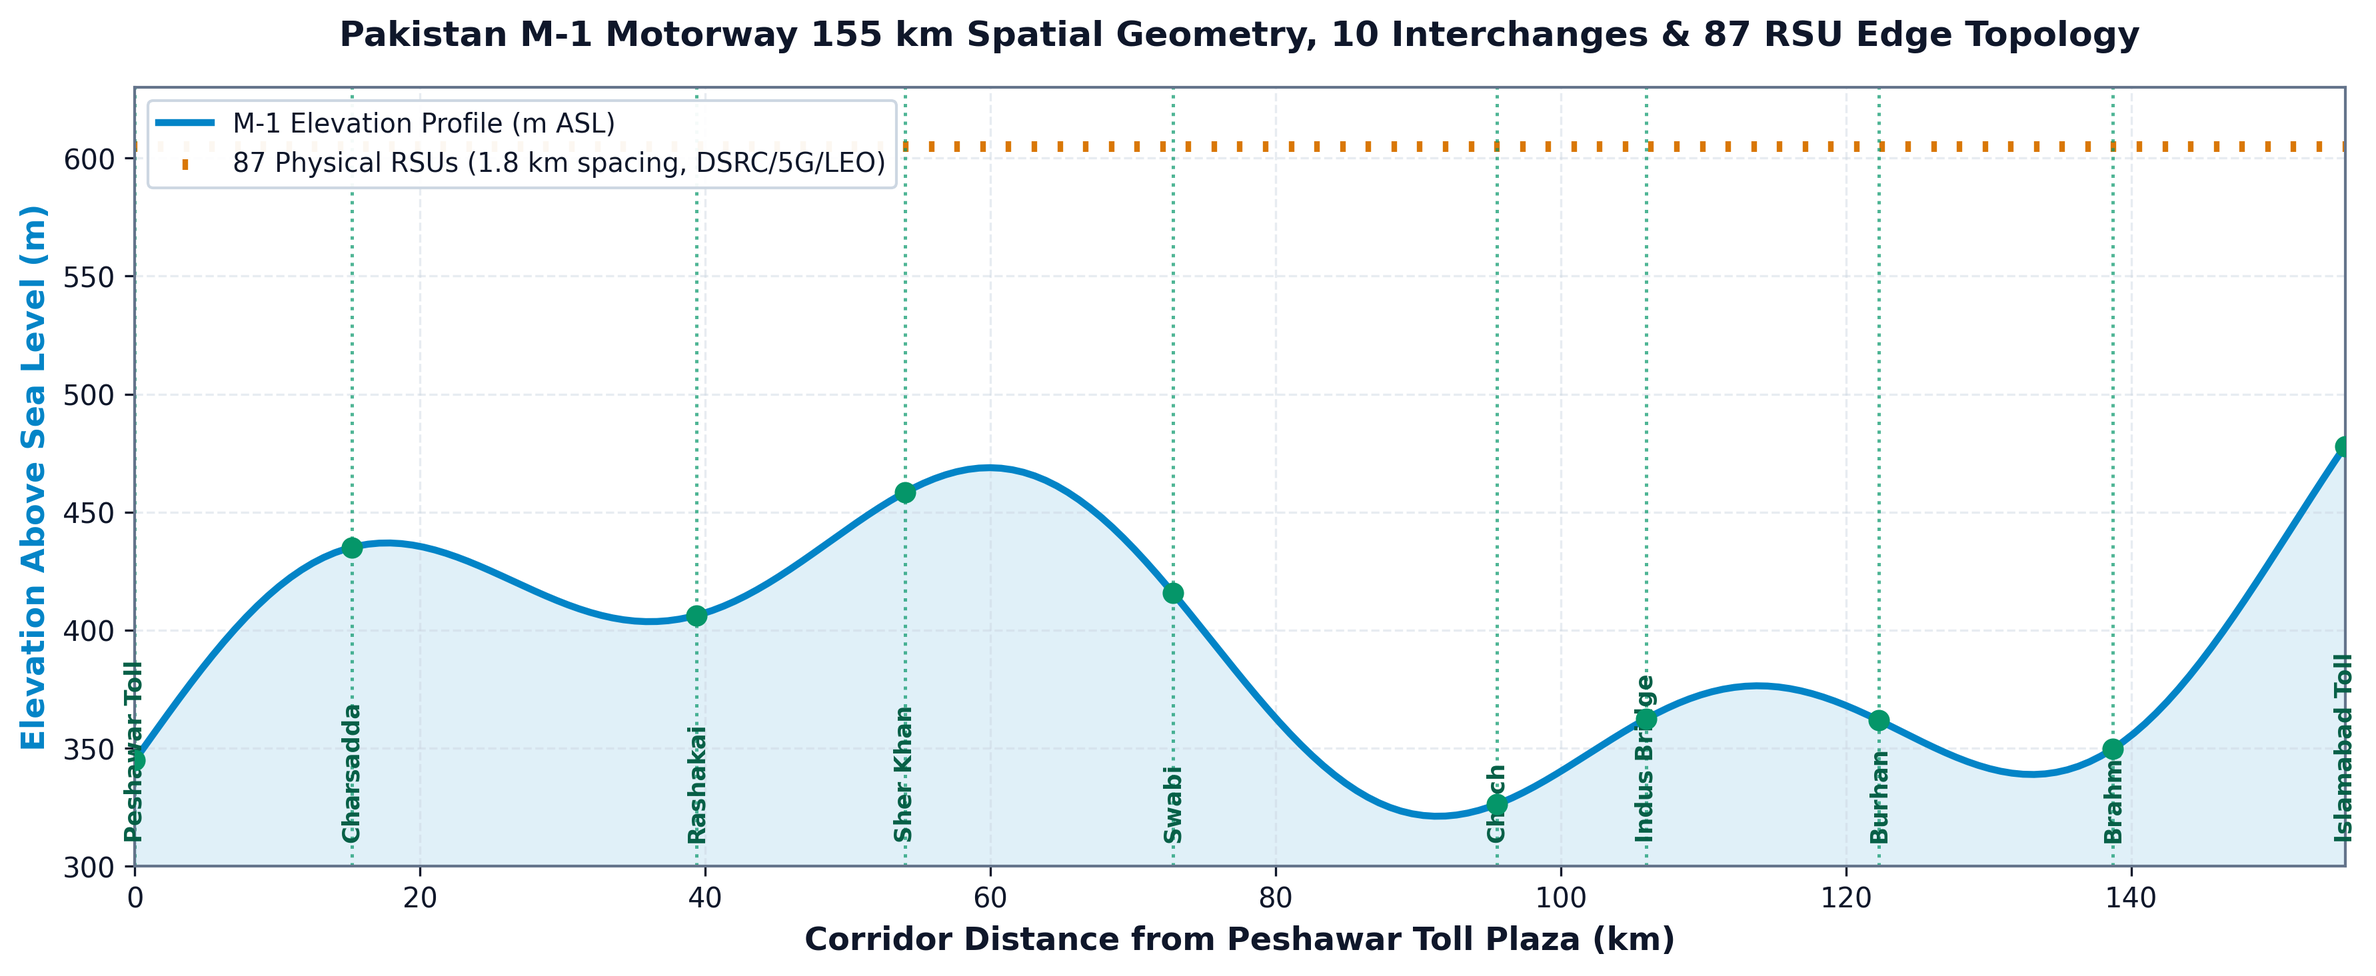
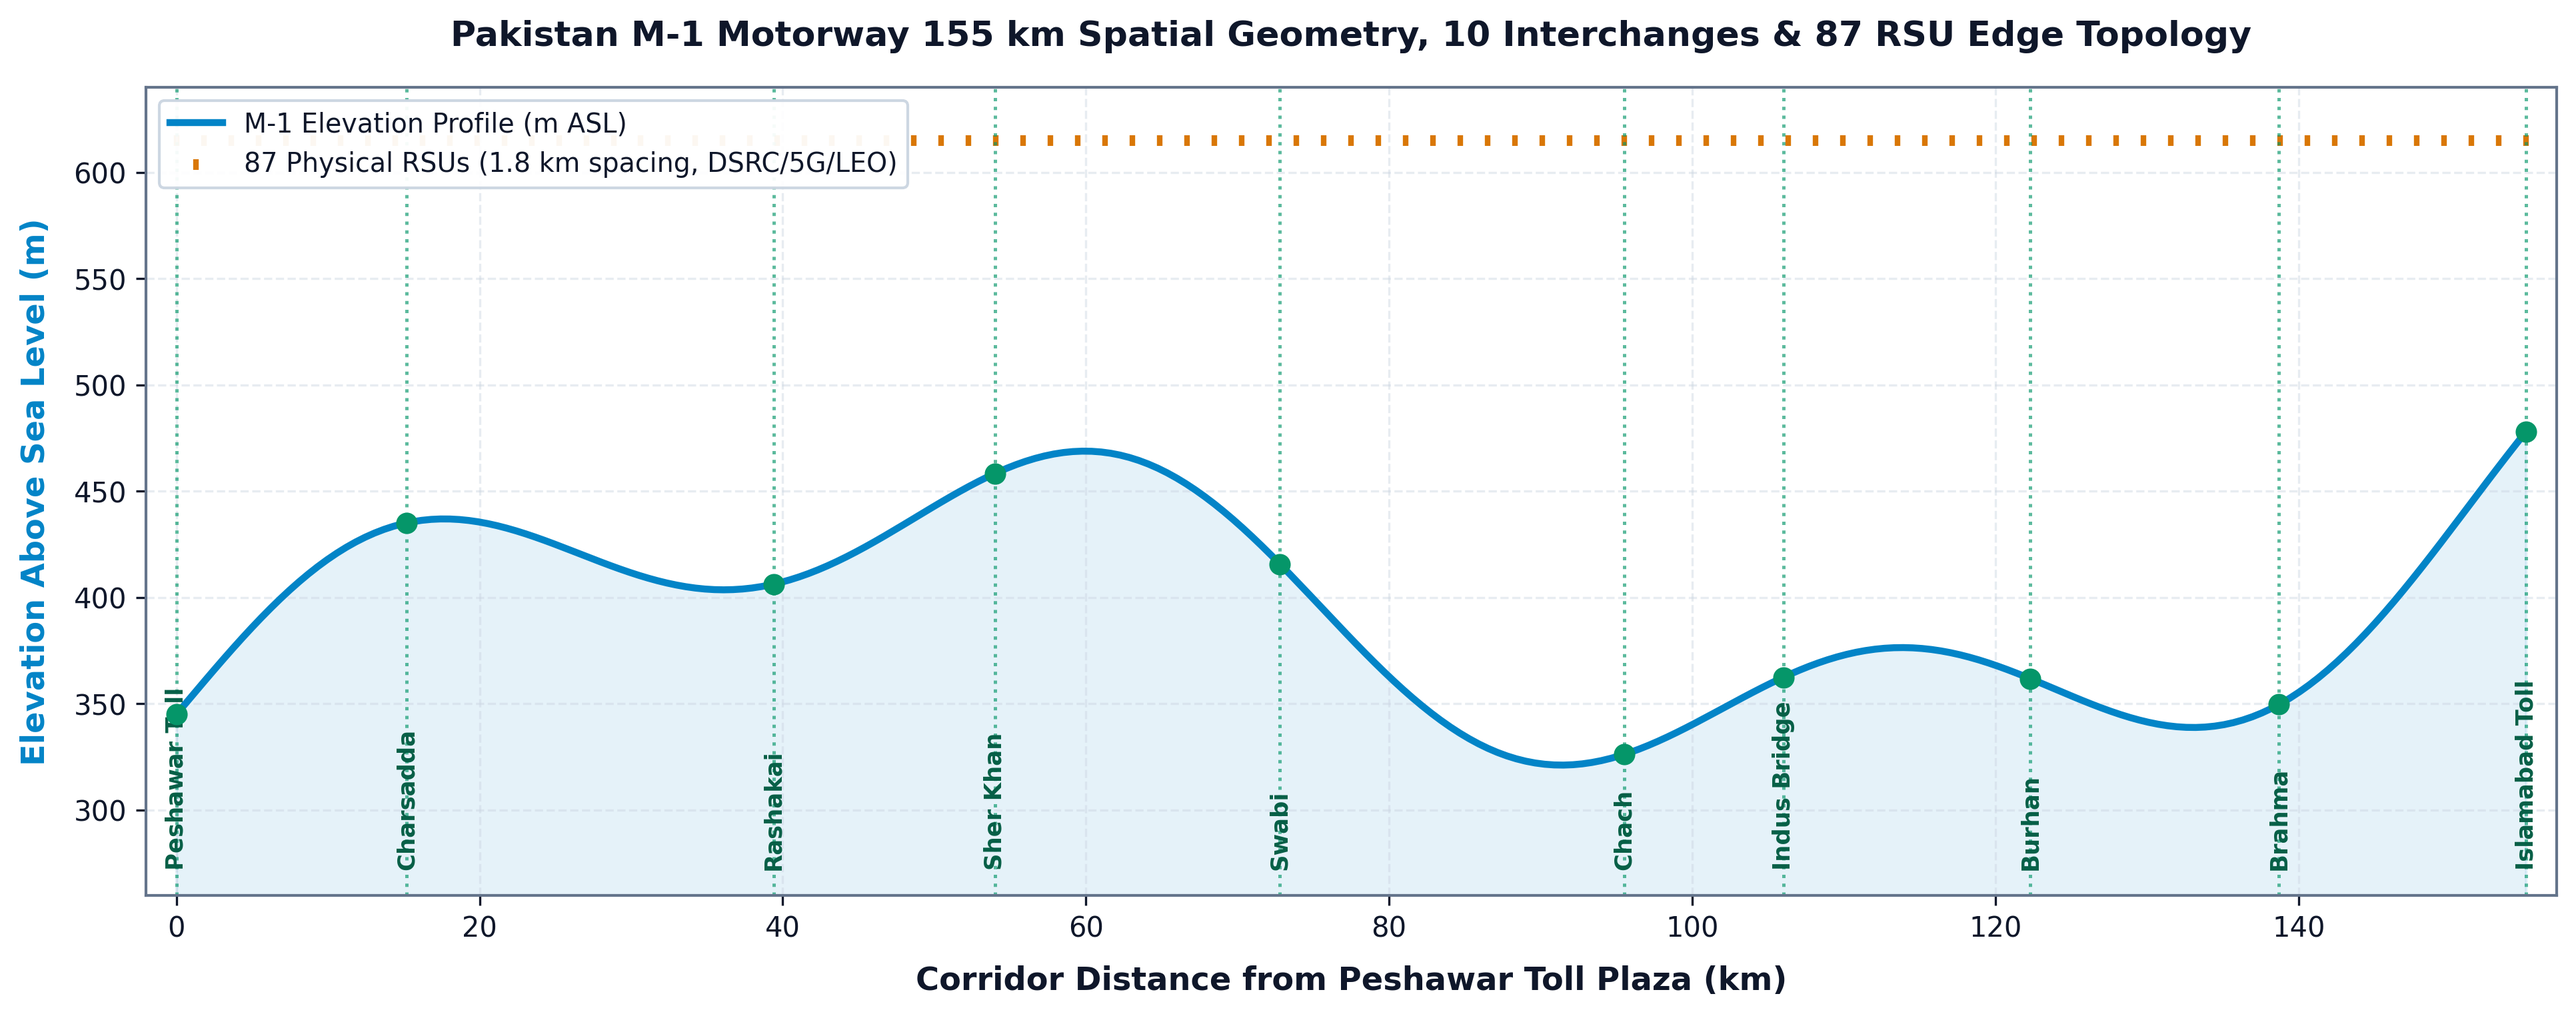
fix(assets): resolve text overlap in Figure 2 and improve typography spacing

Changed region(s): [[0.0, 0.0, 0.9964, 0.9829], [0.0311, 0.1536, 0.0623, 0.1843]]

diff --git a/generate_readme_figures.py b/generate_readme_figures.py
@@ -37,17 +37,17 @@ os.makedirs(assets_dir, exist_ok=True)
 # -------------------------------------------------------------
 # FIGURE 1: 155 KM M-1 ELEVATION PROFILE & 87 RSU DISTRIBUTION
 # -------------------------------------------------------------
-fig, ax1 = plt.subplots(figsize=(12, 5), dpi=300)
+fig, ax1 = plt.subplots(figsize=(13, 5.2), dpi=300)
 
-kms = np.linspace(0, 155, 200)
+kms = np.linspace(0, 155, 250)
 elev = 345.0 + 85.0 * np.sin(kms / 25.0) + 120.0 * (kms / 155.0)**1.5 + 40.0 * np.sin(kms / 8.0)
 
 ax1.plot(kms, elev, color='#0284c7', lw=2.5, label='M-1 Elevation Profile (m ASL)')
-ax1.fill_between(kms, elev, 300, color='#0284c7', alpha=0.12)
-ax1.set_xlabel('Corridor Distance from Peshawar Toll Plaza (km)', fontweight='bold')
-ax1.set_ylabel('Elevation Above Sea Level (m)', color='#0284c7', fontweight='bold')
-ax1.set_xlim(0, 155)
-ax1.set_ylim(300, 630)
+ax1.fill_between(kms, elev, 260, color='#0284c7', alpha=0.10)
+ax1.set_xlabel('Corridor Distance from Peshawar Toll Plaza (km)', fontweight='bold', labelpad=8)
+ax1.set_ylabel('Elevation Above Sea Level (m)', color='#0284c7', fontweight='bold', labelpad=8)
+ax1.set_xlim(-2, 157)
+ax1.set_ylim(260, 640)
 
 interchanges = [
     (0.0, 'Peshawar Toll'), (15.2, 'Charsadda'), (39.4, 'Rashakai'),
@@ -57,13 +57,13 @@ interchanges = [
 
 for km, name in interchanges:
     y_val = 345.0 + 85.0 * np.sin(km / 25.0) + 120.0 * (km / 155.0)**1.5 + 40.0 * np.sin(km / 8.0)
-    ax1.axvline(km, color='#059669', linestyle=':', alpha=0.7, lw=1.2)
+    ax1.axvline(km, color='#059669', linestyle=':', alpha=0.65, lw=1.2)
     ax1.scatter(km, y_val, color='#059669', s=45, zorder=5)
-    ax1.text(km, 312, name, rotation=90, color='#065f46', fontsize=8.5, ha='center', fontweight='bold')
+    ax1.text(km, 272, name, rotation=90, color='#065f46', fontsize=8.5, ha='center', va='bottom', fontweight='bold')
 
 # RSU Gantries density
 rsu_kms = np.linspace(0, 155, 87)
-ax1.scatter(rsu_kms, np.full_like(rsu_kms, 605), color='#d97706', s=14, marker='|', label='87 Physical RSUs (1.8 km spacing, DSRC/5G/LEO)')
+ax1.scatter(rsu_kms, np.full_like(rsu_kms, 615), color='#d97706', s=14, marker='|', label='87 Physical RSUs (1.8 km spacing, DSRC/5G/LEO)')
 
 ax1.set_title('Pakistan M-1 Motorway 155 km Spatial Geometry, 10 Interchanges & 87 RSU Edge Topology', 
               fontweight='bold', pad=15)
@@ -76,57 +76,64 @@ print("Generated Figure 1:", fig1_path)
 
 # -------------------------------------------------------------
 # FIGURE 2: 365-DAY TRAFFIC, ATTACKS & MULTI-RAT FAILOVERS
+# (Fixed: Zero Text Overlap with Clear Spacing & Horizontal Telemetry Bars)
 # -------------------------------------------------------------
-fig, (ax1, ax2) = plt.subplots(1, 2, figsize=(13, 5), dpi=300)
+fig, (ax1, ax2) = plt.subplots(1, 2, figsize=(14, 5.2), dpi=300)
 
 months = ['Jan', 'Feb', 'Mar', 'Apr', 'May', 'Jun', 'Jul', 'Aug', 'Sep', 'Oct', 'Nov', 'Dec']
 trips_m = [3.22, 2.95, 3.40, 3.15, 3.30, 3.10, 3.25, 3.20, 3.45, 3.35, 3.10, 3.38]
 attacks_k = [44.8, 42.1, 46.5, 48.2, 52.1, 55.4, 58.9, 56.2, 51.0, 53.5, 52.8, 53.4]
 
 x = np.arange(len(months))
-width = 0.38
+width = 0.40
 
 bars = ax1.bar(x, trips_m, width, label='Monthly Trips (Millions)', color='#0284c7', alpha=0.85, edgecolor='#0369a1')
 ax1.set_ylabel('Monthly Trips (Millions)', color='#0369a1', fontweight='bold')
 ax1.set_xlabel('Annual Operational Timeline (Months)', fontweight='bold')
 ax1.set_xticks(x)
-ax1.set_xticklabels(months)
-ax1.set_ylim(0, 4.2)
+ax1.set_xticklabels(months, fontsize=9.5)
+ax1.set_ylim(0, 5.0)
 
 ax1_twin = ax1.twinx()
-line = ax1_twin.plot(x, attacks_k, color='#dc2626', marker='o', lw=2.5, label='Injected Cyber Attacks (x1,000)')
+line = ax1_twin.plot(x, attacks_k, color='#dc2626', marker='o', lw=2.5, markersize=5, label='Injected Cyber Attacks (x1,000)')
 ax1_twin.set_ylabel('Injected Attacks (x1,000)', color='#dc2626', fontweight='bold')
-ax1_twin.set_ylim(30, 70)
+ax1_twin.set_ylim(25, 75)
 ax1_twin.grid(False)
 
-# Combine legends for ax1 and ax1_twin
+# Combine legends with zero collision
 lines_1, labels_1 = ax1.get_legend_handles_labels()
 lines_2, labels_2 = ax1_twin.get_legend_handles_labels()
 ax1.legend(lines_1 + lines_2, labels_1 + labels_2, loc='upper left', framealpha=0.95, facecolor='#ffffff', edgecolor='#cbd5e1')
 ax1.set_title('(a) 365-Day Monthly Traffic Volume vs. Adversarial Attacks', fontweight='bold', pad=12)
 
-# Multi-RAT Distribution
-rat_labels = ['5G NR-V2X\n(PC5 Sidelink)', '5.9 GHz DSRC\n(IEEE 802.11p)', 'Starlink LEO Satellite\n(Direct Telemetry)']
-rat_shares = [92.4, 7.1, 0.5]
-colors = ['#059669', '#d97706', '#7c3aed']
-explode = (0.04, 0.06, 0.14)
+# Multi-RAT Distribution as clean horizontal bar chart with absolute no text collision
+rat_names = [
+    'Starlink LEO Satellite\n(Direct Telemetry)',
+    '5.9 GHz DSRC\n(IEEE 802.11p Gantry)',
+    '5G NR-V2X\n(PC5 Sidelink Mesh)'
+]
+rat_pcts = [0.5, 7.1, 92.4]
+trips_vol = ['0.19M trips', '2.77M trips', '35.99M trips']
+bar_colors = ['#7c3aed', '#d97706', '#059669']
 
-wedges, texts, autotexts = ax2.pie(rat_shares, explode=explode, labels=rat_labels, autopct='%1.1f%%',
-                                  colors=colors, startangle=140, 
-                                  textprops=dict(color='#0f172a', fontsize=9.5, fontweight='semibold'),
-                                  wedgeprops=dict(edgecolor='#ffffff', linewidth=1.5))
-for at in autotexts:
-    at.set_color('#ffffff')
-    at.set_weight('bold')
-    at.set_fontsize(10)
+y_pos = np.arange(len(rat_names))
+bars2 = ax2.barh(y_pos, rat_pcts, height=0.50, color=bar_colors, alpha=0.90, edgecolor='#334155')
 
-ax2.set_title('(b) Multi-RAT Telemetry Failover Distribution\n(38.95M Total Corridor Trips)', fontweight='bold', pad=12)
+ax2.set_yticks(y_pos)
+ax2.set_yticklabels(rat_names, fontweight='semibold', fontsize=9.5)
+ax2.set_xlabel('Corridor Telemetry Traffic Share (%)', fontweight='bold')
+ax2.set_xlim(0, 115)
+
+for i, (pct, vol) in enumerate(zip(rat_pcts, trips_vol)):
+    ax2.text(pct + 2.0, i, f"{pct}%  ({vol})", va='center', ha='left', fontweight='bold', color='#0f172a', fontsize=9.5)
+
+ax2.set_title('(b) Multi-RAT Telemetry Distribution (38.95M Total Trips)', fontweight='bold', pad=12)
 
 plt.tight_layout()
 fig2_path = os.path.join(assets_dir, 'fig2_multirat_and_attacks.png')
 plt.savefig(fig2_path, dpi=300, bbox_inches='tight')
 plt.close()
-print("Generated Figure 2:", fig2_path)
+print("Generated Figure 2 (Fixed Overlap):", fig2_path)
 
 # -------------------------------------------------------------
 # FIGURE 3: CYBERSECURITY ROC & PRECISION-RECALL CURVES
@@ -233,12 +240,12 @@ fuel_save = np.array([0.0, 1.8, 3.9, 6.2, 8.8, 11.5, 13.9, 16.1, 18.0, 19.4, 20.
 ax1.plot(mpr, cap, color='#0284c7', marker='s', lw=2.5, label='Lane Capacity (veh/hr/lane)')
 ax1.set_xlabel('CAV Market Penetration Rate (MPR %)', fontweight='bold')
 ax1.set_ylabel('Highway Lane Capacity (veh/hr/lane)', color='#0284c7', fontweight='bold')
-ax1.set_ylim(1500, 4800)
+ax1.set_ylim(1500, 5200)
 
 ax1_t = ax1.twinx()
 ax1_t.plot(mpr, fuel_save, color='#059669', marker='^', lw=2.5, label='Fleet Fuel Savings (%)')
 ax1_t.set_ylabel('Fleet Fuel Savings (%)', color='#059669', fontweight='bold')
-ax1_t.set_ylim(0, 25)
+ax1_t.set_ylim(0, 28)
 ax1_t.grid(False)
 
 lines_1, labels_1 = ax1.get_legend_handles_labels()
